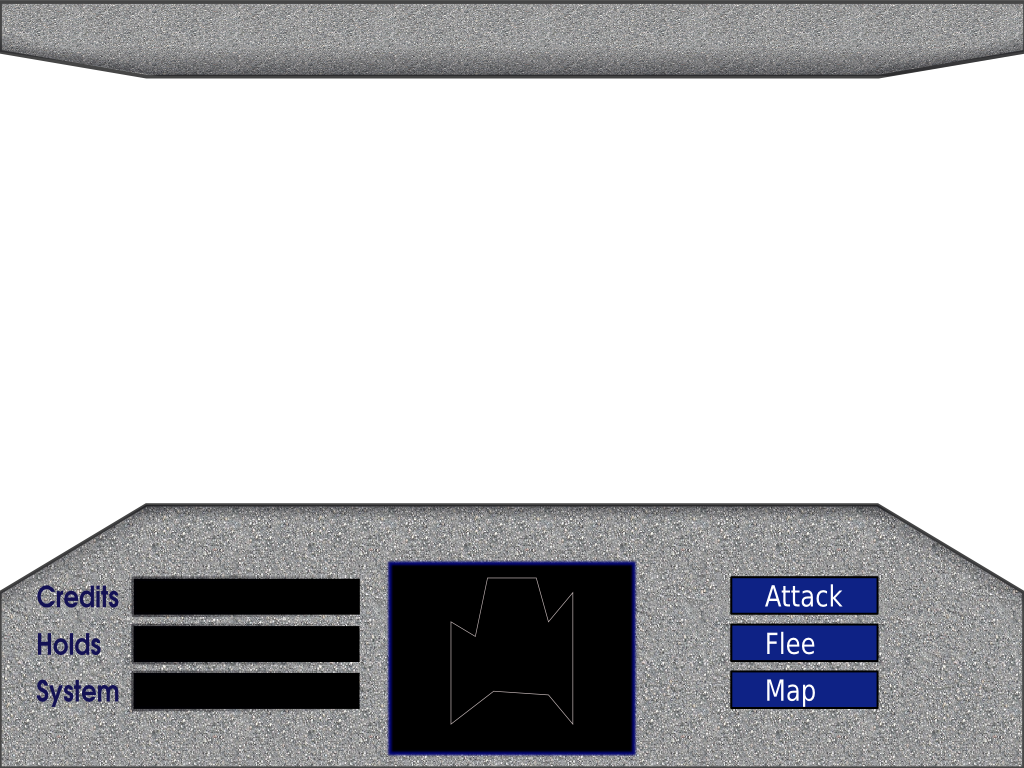
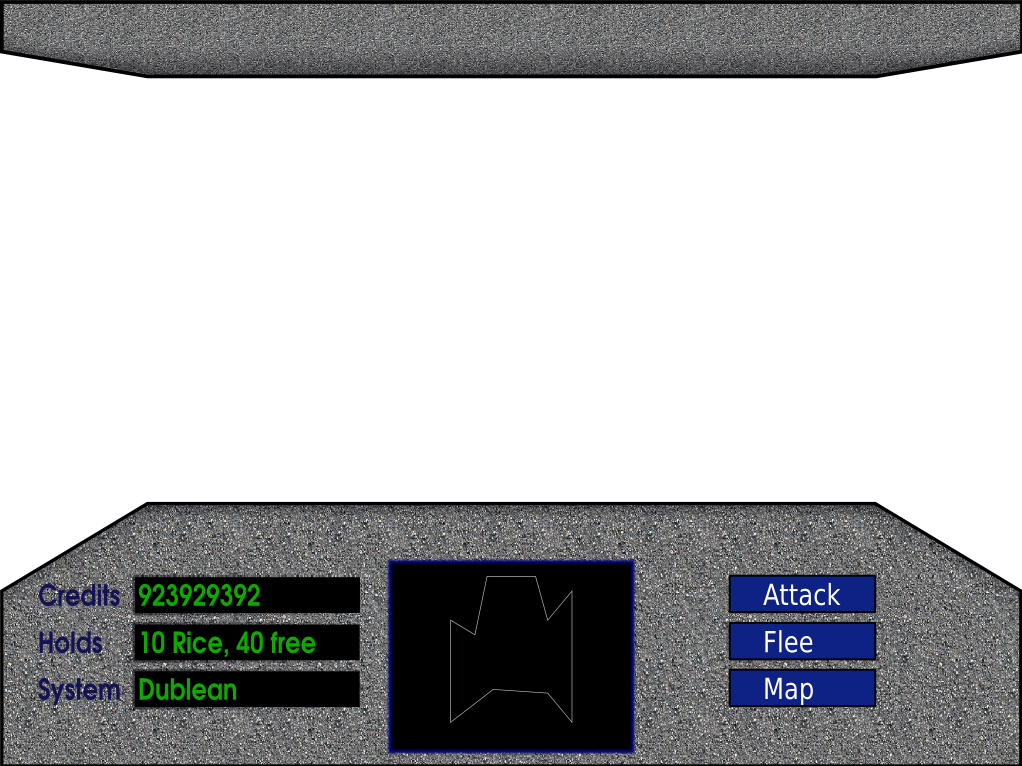
Added simple starfield

Changed region(s): [[0.0, 0.6305, 1.0, 1.0], [0.0, 0.0, 1.0, 0.1201]]

diff --git a/src/main/java/org/twdata/trader/SimpleGame.java b/src/main/java/org/twdata/trader/SimpleGame.java
@@ -1,17 +1,24 @@
 package org.twdata.trader;
 
 import java.awt.Font;
+import java.awt.geom.Rectangle2D;
+import java.util.Random;
+
 import org.newdawn.slick.*;
+import org.newdawn.slick.geom.Circle;
 import org.newdawn.slick.opengl.renderer.Renderer;
 import org.newdawn.slick.svg.SimpleDiagramRenderer;
 import org.newdawn.slick.svg.InkscapeLoader;
 import org.newdawn.slick.svg.Diagram;
+import org.twdata.trader.ui.Starfield;
 
 public class SimpleGame extends BasicGame
 {
 
     Image hud;
     private TrueTypeFont font;
+    private final Random rnd = new Random();
+    private Starfield starfield;
 
     public SimpleGame()
     {
@@ -22,14 +29,14 @@ public class SimpleGame extends BasicGame
     public void init(GameContainer gc)
 			throws SlickException
     {
-        gc.getGraphics().setBackground(Color.white);
+        gc.getGraphics().setBackground(Color.black);
 
 		InkscapeLoader.RADIAL_TRIANGULATION_LEVEL = 2;
 
         hud = new Image("hud.png");
-        gc.getGraphics().setBackground(Color.black);
         Font basefont = new Font("Verdana", Font.BOLD, 20);
         font = new TrueTypeFont(basefont, true);
+        starfield = new Starfield(200, new Rectangle2D.Float(0, 768-710, 1024, 768-170));
 
 
     }
@@ -42,7 +49,9 @@ public class SimpleGame extends BasicGame
 
         if (input.isKeyDown(Input.KEY_ESCAPE))
         {
-            System.exit(0);
+            gc.exit();
+        } else if (input.isKeyDown(Input.KEY_W)) {
+            starfield.warp();
         }
 
 
@@ -52,10 +61,13 @@ public class SimpleGame extends BasicGame
 			throws SlickException 
     {
         //g.scale(.1f,.1f);
+        g.setBackground(Color.black);
+        starfield.draw(g);
+        
 
-        hud.draw(0,0);
         font.drawString(150f, 768f - 175f, "0123456");
 
+        hud.draw(0,0);
         //g.resetTransform();
 
     }
@@ -63,12 +75,13 @@ public class SimpleGame extends BasicGame
     public static void main(String[] args)
 			throws SlickException
     {
-        Renderer.setRenderer(Renderer.VERTEX_ARRAY_RENDERER);
-			Renderer.setLineStripRenderer(Renderer.QUAD_BASED_LINE_STRIP_RENDERER);
+        //Renderer.setRenderer(Renderer.VERTEX_ARRAY_RENDERER);
+//			Renderer.setLineStripRenderer(Renderer.QUAD_BASED_LINE_STRIP_RENDERER);
          AppGameContainer app =
 			new AppGameContainer(new SimpleGame());
 
-         app.setDisplayMode(1024, 768, true);
+         app.setDisplayMode(1024, 768, false);
+         app.setTargetFrameRate(60);
          app.start();
     }
 }
